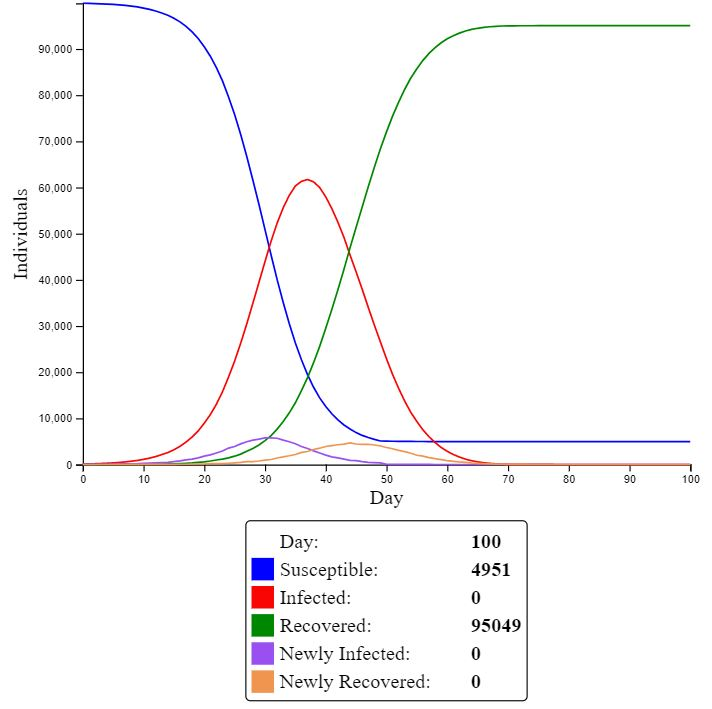
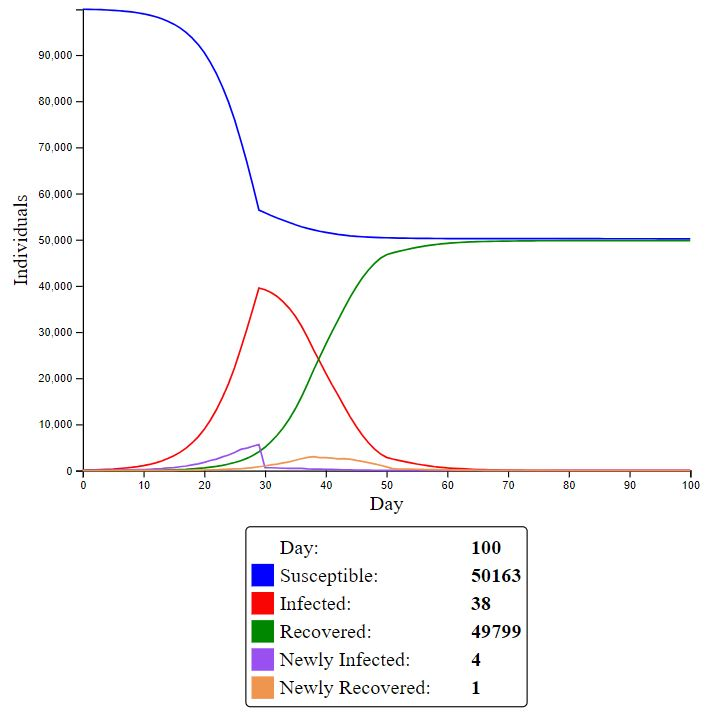
Update to Agent Based Models

diff --git a/.ipynb_checkpoints/41189 Modelling Assignment-checkpoint.md b/.ipynb_checkpoints/41189 Modelling Assignment-checkpoint.md
@@ -238,7 +238,7 @@ Agent based models take into consideration the number of degrees for each indivi
 This model is simulating the spread of covid-19 in a group of 100,000 agents over 100 days, assuming that 100 people are initially infected. These individuals are said to have an average of 20 connections, with a 1.4% chance of spreading the virus to those agents. Also, the recovery rate is approximately 14 days after an individual is infected.
 
 
-- Covid agent based model with a 90 day lockdown being implemented after 15 days of the virus being present in society:
+- Covid agent based model with an 85 day lockdown being implemented after 15 days of the virus being present in society:
 
 ![AgentBasedModel2.JPG](ComplexSystemsImages/AgentBasedModel2.JPG)
 
@@ -514,38 +514,39 @@ With the evolving and complex nature of the predicament caused by the Covid-19 p
 
 
 
-<!-- #region -->
+
+The agent based model is implemented to the Covid-19 pandemic in order to measure the impact of the lockdown as a preventative measure, deducing whether or not it is successful, and in what predicament would it be most efficient in diminishing the spread of the virus. The scenarios are generated with various inputs (Covid-19 Demonstration Model, 2020) in order to depict the potential number of infected, recovered and deceased agents under various scenarios. The models all take the assumption that the fatality rate of the virus is approximately 2.78% (COVID-19 CORONAVIRUS PANDEMIC, 2020). 
+
+
 - Covid agent based model without lockdown being implemented as a preventative measure:
 
 ![AgentBasedModel1.JPG](ComplexSystemsImages/AgentBasedModel1.JPG)
 
+This agent based model acts as a visualisation of what would occur if the preventative measure of a lockdown was not implemented into a society of 100,000 agents over the span of 100 days, assuming that 100 agents were initially infected. Also, the model assumes that the average recovery time of an infected individual would be 14 days after they contract the virus. The model also assumes that each agent (node) in the network has 20 connections (degrees). Since these interactions may be as simple as walking past somebody on the street, the chance of an infected individual transmitting the disease is 0.014, or a 1.4% chance. This configuration is maintained throughout the following scenarios, with the only difference being the implementation of lockdowns of varying durations at different moments of the 100 day period. Taking the estimated fatality rate as 2.78%, we can assume that in this scenario that after the 100 days, that 2,678 of the 96,340 agents who contracted the virus would have died. Hence, with no lockdown, it can be assumed that 2,678 of every 100,000 people would die from the virus after 100 days of its existence in society.
 
 
 
 - Covid agent based model with a 30 day lockdown being implemented after 15 days of the virus being present in society:
 ![ABM30Days.JPG](ComplexSystemsImages/ABM30Days.JPG)
 
+This model represents the introduction of a lockdown which reduces the amount of connections each individual interacts with by 90%. This lockdown has a duration of 30 days and is implemented 15 days after the virus is initially recognised in society. As seen in the graph, the lockdown was highly successful during its duration. However, after the 30 days was completed, the reopening of society led to a severe surge of cases. Ultimately, by the 100th day, 10,249 agents were still infected with the virus, which is a significant increase from the first scenario with no lockdown, which had 0 infected agents by the end of the 100 day period. Also, out of the 85,353 agents, using the estimated fatality rate, it can be assumed that 2,372 individuals would have died from the virus, with the potential to increase with the currently infected agents. Hence, whilst this lockdown has slightly reduced the amount of deaths after the 100 day period, it has prolonged the existence of the virus in society, perhaps proving more detrimental in the long run.
 
 
 
-- Covid agent based model with a 30 day lockdown being implemented after 50 days of the virus being present in society:
+- Covid agent based model with a 50 day lockdown being implemented after 30 days of the virus being present in society:
 ![ABM30Days2.JPG](ComplexSystemsImages/ABM30Days2.JPG)
 
+This model sees the implementation of a lockdown with a 50 day duration after 30 days of the virus being recognised in the society. The graph represents the success of the lockdown as the curve depicting the rate of infection abruptly begins to decrease with the lockdown being introduced in the society. Unlike the previous scenario, the lockdown's effect is continued even after its completion on day 80, with minimal new cases arising after the lockdown ends. Whilst there are still 38 infected agents at the 100th day, the amount of agents who were never infected at any stage of the 100 day period is significantly larger than the prior scenarios. Using the estimated fatality rate of 2.78%, it can be assumed that about 1,384 of the 49,799 closed cases had died. However, whilst this is still a large number, it is significantly better than the prior scenarios.
 
 
 
-- Covid agent based model with a 90 day lockdown being implemented after 15 days of the virus being present in society:
+- Covid agent based model with an 85 day lockdown being implemented after 15 days of the virus being present in society:
 
 ![AgentBasedModel2.JPG](ComplexSystemsImages/AgentBasedModel2.JPG)
 
+With this final scenario, a lockdown with a duration of 85 days is introduced into society after 15 days of the virus being present in society. Due to the severe nature of this preventative measure, the number of agents who never contracted the virus is extremely high at 96,633. Hence, out of the 3,367 closed cases, using the 2.78% fatality rate, we can estimate that there were 93 deaths in this scenario. Whilst this scenario would hypothetically be the most effective measure in terms of reducing the amount of infected agents, it can be perceived as unreasonable. This is due to the fact that reducing 90% of interactions for 85 days may have a detrimental influence on the mental wellbeing of the individuals in society. Hence, whilst the model is successful in displaying the statistical information regarding the infection of the agents in this scenario, it does not account for the wellbeing of the agents, as the 85 day lockdown may be perceived as irrational and improbable.
 
 
-
-
-
-
-
-<!-- #endregion -->
 
 #### Schelling’s Segregation Model
 
@@ -553,7 +554,7 @@ With the evolving and complex nature of the predicament caused by the Covid-19 p
 
 
 
-Through the implementation of Schelling's Segregation Model, we are able to see the extent to which individuals may go to in order to be comfortable with the neighbours surrounding them in regards to their acceptance of vaccines and face masks as a preventative measure to the Covid-19 pandemic issue. Whilst the segregation models do not track the physical locations of the individuals since people would not be willing to move houses in order to be satisfied with their neighbours' measures to prevent the virus, they are useful to recognise the structure that a society would need to take in order for all members to be completely satisfied.
+Through the implementation of Schelling's Segregation Model, we are able to see the extent to which individuals may go to in order to be comfortable with the neighbours surrounding them in regards to their acceptance of vaccines and face masks as a preventative measure to the Covid-19 pandemic issue. Whilst the segregation models do not track the physical locations of the individuals since people would not be willing to move houses in order to be satisfied with their neighbours' measures to prevent the virus, they are useful to recognise the structure that a society would need to take in order for all members to be completely satisfied. The following scenarios are generated using the NetLogo segregation model (Wilensky, 1997).
 
 <!-- #region -->
 - Segregation Model with 0% similarity rate (0% of neighbours must be vaccinated or wearing a mask as a preventative measure)
@@ -686,6 +687,8 @@ ABS. 2020. ‘People and Communities, Household impacts of Covid-19 Survery’ h
 Archana, C., Pavan, J. & Satish, S. 2020. ‘COVID 19: Outbreak, Structure, and Current Therapeutic Strategies.’, Sakun Publishing House, vol. 11, no. 7, pp. 6825-6835. http://web.b.ebscohost.com.ezproxy.lib.uts.edu.au/ehost/pdfviewer/pdfviewer?vid=1&sid=5681bd2d-ac79-472a-8acc-63536f582b70%40sessionmgr101 
 
 Australian Government, 2020. ‘What you need to know about coronavirus (COVID-19)’, Department of Health.https://www.health.gov.au/news/health-alerts/novel-coronavirus-2019-ncov-health-alert/what-you-need-to-know-about-coronavirus-covid-19 
+
+COVID-19 CORONAVIRUS PANDEMIC. (2020). Retrieved 19 October 2020, from https://www.worldometers.info/coronavirus/
 
 Covid-19 Demonstration Model. (2020). Retrieved 20 September 2020, from http://covidagentmodel.com/
 

diff --git a/41189 Modelling Assignment.md b/41189 Modelling Assignment.md
@@ -238,7 +238,7 @@ Agent based models take into consideration the number of degrees for each indivi
 This model is simulating the spread of covid-19 in a group of 100,000 agents over 100 days, assuming that 100 people are initially infected. These individuals are said to have an average of 20 connections, with a 1.4% chance of spreading the virus to those agents. Also, the recovery rate is approximately 14 days after an individual is infected.
 
 
-- Covid agent based model with a 90 day lockdown being implemented after 15 days of the virus being present in society:
+- Covid agent based model with an 85 day lockdown being implemented after 15 days of the virus being present in society:
 
 ![AgentBasedModel2.JPG](ComplexSystemsImages/AgentBasedModel2.JPG)
 
@@ -514,38 +514,39 @@ With the evolving and complex nature of the predicament caused by the Covid-19 p
 
 
 
-<!-- #region -->
+
+The agent based model is implemented to the Covid-19 pandemic in order to measure the impact of the lockdown as a preventative measure, deducing whether or not it is successful, and in what predicament would it be most efficient in diminishing the spread of the virus. The scenarios are generated with various inputs (Covid-19 Demonstration Model, 2020) in order to depict the potential number of infected, recovered and deceased agents under various scenarios. The models all take the assumption that the fatality rate of the virus is approximately 2.78% (COVID-19 CORONAVIRUS PANDEMIC, 2020). 
+
+
 - Covid agent based model without lockdown being implemented as a preventative measure:
 
 ![AgentBasedModel1.JPG](ComplexSystemsImages/AgentBasedModel1.JPG)
 
+This agent based model acts as a visualisation of what would occur if the preventative measure of a lockdown was not implemented into a society of 100,000 agents over the span of 100 days, assuming that 100 agents were initially infected. Also, the model assumes that the average recovery time of an infected individual would be 14 days after they contract the virus. The model also assumes that each agent (node) in the network has 20 connections (degrees). Since these interactions may be as simple as walking past somebody on the street, the chance of an infected individual transmitting the disease is 0.014, or a 1.4% chance. This configuration is maintained throughout the following scenarios, with the only difference being the implementation of lockdowns of varying durations at different moments of the 100 day period. Taking the estimated fatality rate as 2.78%, we can assume that in this scenario that after the 100 days, that 2,678 of the 96,340 agents who contracted the virus would have died. Hence, with no lockdown, it can be assumed that 2,678 of every 100,000 people would die from the virus after 100 days of its existence in society.
 
 
 
 - Covid agent based model with a 30 day lockdown being implemented after 15 days of the virus being present in society:
 ![ABM30Days.JPG](ComplexSystemsImages/ABM30Days.JPG)
 
+This model represents the introduction of a lockdown which reduces the amount of connections each individual interacts with by 90%. This lockdown has a duration of 30 days and is implemented 15 days after the virus is initially recognised in society. As seen in the graph, the lockdown was highly successful during its duration. However, after the 30 days was completed, the reopening of society led to a severe surge of cases. Ultimately, by the 100th day, 10,249 agents were still infected with the virus, which is a significant increase from the first scenario with no lockdown, which had 0 infected agents by the end of the 100 day period. Also, out of the 85,353 agents, using the estimated fatality rate, it can be assumed that 2,372 individuals would have died from the virus, with the potential to increase with the currently infected agents. Hence, whilst this lockdown has slightly reduced the amount of deaths after the 100 day period, it has prolonged the existence of the virus in society, perhaps proving more detrimental in the long run.
 
 
 
-- Covid agent based model with a 30 day lockdown being implemented after 50 days of the virus being present in society:
+- Covid agent based model with a 50 day lockdown being implemented after 30 days of the virus being present in society:
 ![ABM30Days2.JPG](ComplexSystemsImages/ABM30Days2.JPG)
 
+This model sees the implementation of a lockdown with a 50 day duration after 30 days of the virus being recognised in the society. The graph represents the success of the lockdown as the curve depicting the rate of infection abruptly begins to decrease with the lockdown being introduced in the society. Unlike the previous scenario, the lockdown's effect is continued even after its completion on day 80, with minimal new cases arising after the lockdown ends. Whilst there are still 38 infected agents at the 100th day, the amount of agents who were never infected at any stage of the 100 day period is significantly larger than the prior scenarios. Using the estimated fatality rate of 2.78%, it can be assumed that about 1,384 of the 49,799 closed cases had died. However, whilst this is still a large number, it is significantly better than the prior scenarios.
 
 
 
-- Covid agent based model with a 90 day lockdown being implemented after 15 days of the virus being present in society:
+- Covid agent based model with an 85 day lockdown being implemented after 15 days of the virus being present in society:
 
 ![AgentBasedModel2.JPG](ComplexSystemsImages/AgentBasedModel2.JPG)
 
+With this final scenario, a lockdown with a duration of 85 days is introduced into society after 15 days of the virus being present in society. Due to the severe nature of this preventative measure, the number of agents who never contracted the virus is extremely high at 96,633. Hence, out of the 3,367 closed cases, using the 2.78% fatality rate, we can estimate that there were 93 deaths in this scenario. Whilst this scenario would hypothetically be the most effective measure in terms of reducing the amount of infected agents, it can be perceived as unreasonable. This is due to the fact that reducing 90% of interactions for 85 days may have a detrimental influence on the mental wellbeing of the individuals in society. Hence, whilst the model is successful in displaying the statistical information regarding the infection of the agents in this scenario, it does not account for the wellbeing of the agents, as the 85 day lockdown may be perceived as irrational and improbable.
 
 
-
-
-
-
-
-<!-- #endregion -->
 
 #### Schelling’s Segregation Model
 
@@ -553,7 +554,7 @@ With the evolving and complex nature of the predicament caused by the Covid-19 p
 
 
 
-Through the implementation of Schelling's Segregation Model, we are able to see the extent to which individuals may go to in order to be comfortable with the neighbours surrounding them in regards to their acceptance of vaccines and face masks as a preventative measure to the Covid-19 pandemic issue. Whilst the segregation models do not track the physical locations of the individuals since people would not be willing to move houses in order to be satisfied with their neighbours' measures to prevent the virus, they are useful to recognise the structure that a society would need to take in order for all members to be completely satisfied.
+Through the implementation of Schelling's Segregation Model, we are able to see the extent to which individuals may go to in order to be comfortable with the neighbours surrounding them in regards to their acceptance of vaccines and face masks as a preventative measure to the Covid-19 pandemic issue. Whilst the segregation models do not track the physical locations of the individuals since people would not be willing to move houses in order to be satisfied with their neighbours' measures to prevent the virus, they are useful to recognise the structure that a society would need to take in order for all members to be completely satisfied. The following scenarios are generated using the NetLogo segregation model (Wilensky, 1997).
 
 <!-- #region -->
 - Segregation Model with 0% similarity rate (0% of neighbours must be vaccinated or wearing a mask as a preventative measure)
@@ -686,6 +687,8 @@ ABS. 2020. ‘People and Communities, Household impacts of Covid-19 Survery’ h
 Archana, C., Pavan, J. & Satish, S. 2020. ‘COVID 19: Outbreak, Structure, and Current Therapeutic Strategies.’, Sakun Publishing House, vol. 11, no. 7, pp. 6825-6835. http://web.b.ebscohost.com.ezproxy.lib.uts.edu.au/ehost/pdfviewer/pdfviewer?vid=1&sid=5681bd2d-ac79-472a-8acc-63536f582b70%40sessionmgr101 
 
 Australian Government, 2020. ‘What you need to know about coronavirus (COVID-19)’, Department of Health.https://www.health.gov.au/news/health-alerts/novel-coronavirus-2019-ncov-health-alert/what-you-need-to-know-about-coronavirus-covid-19 
+
+COVID-19 CORONAVIRUS PANDEMIC. (2020). Retrieved 19 October 2020, from https://www.worldometers.info/coronavirus/
 
 Covid-19 Demonstration Model. (2020). Retrieved 20 September 2020, from http://covidagentmodel.com/
 
